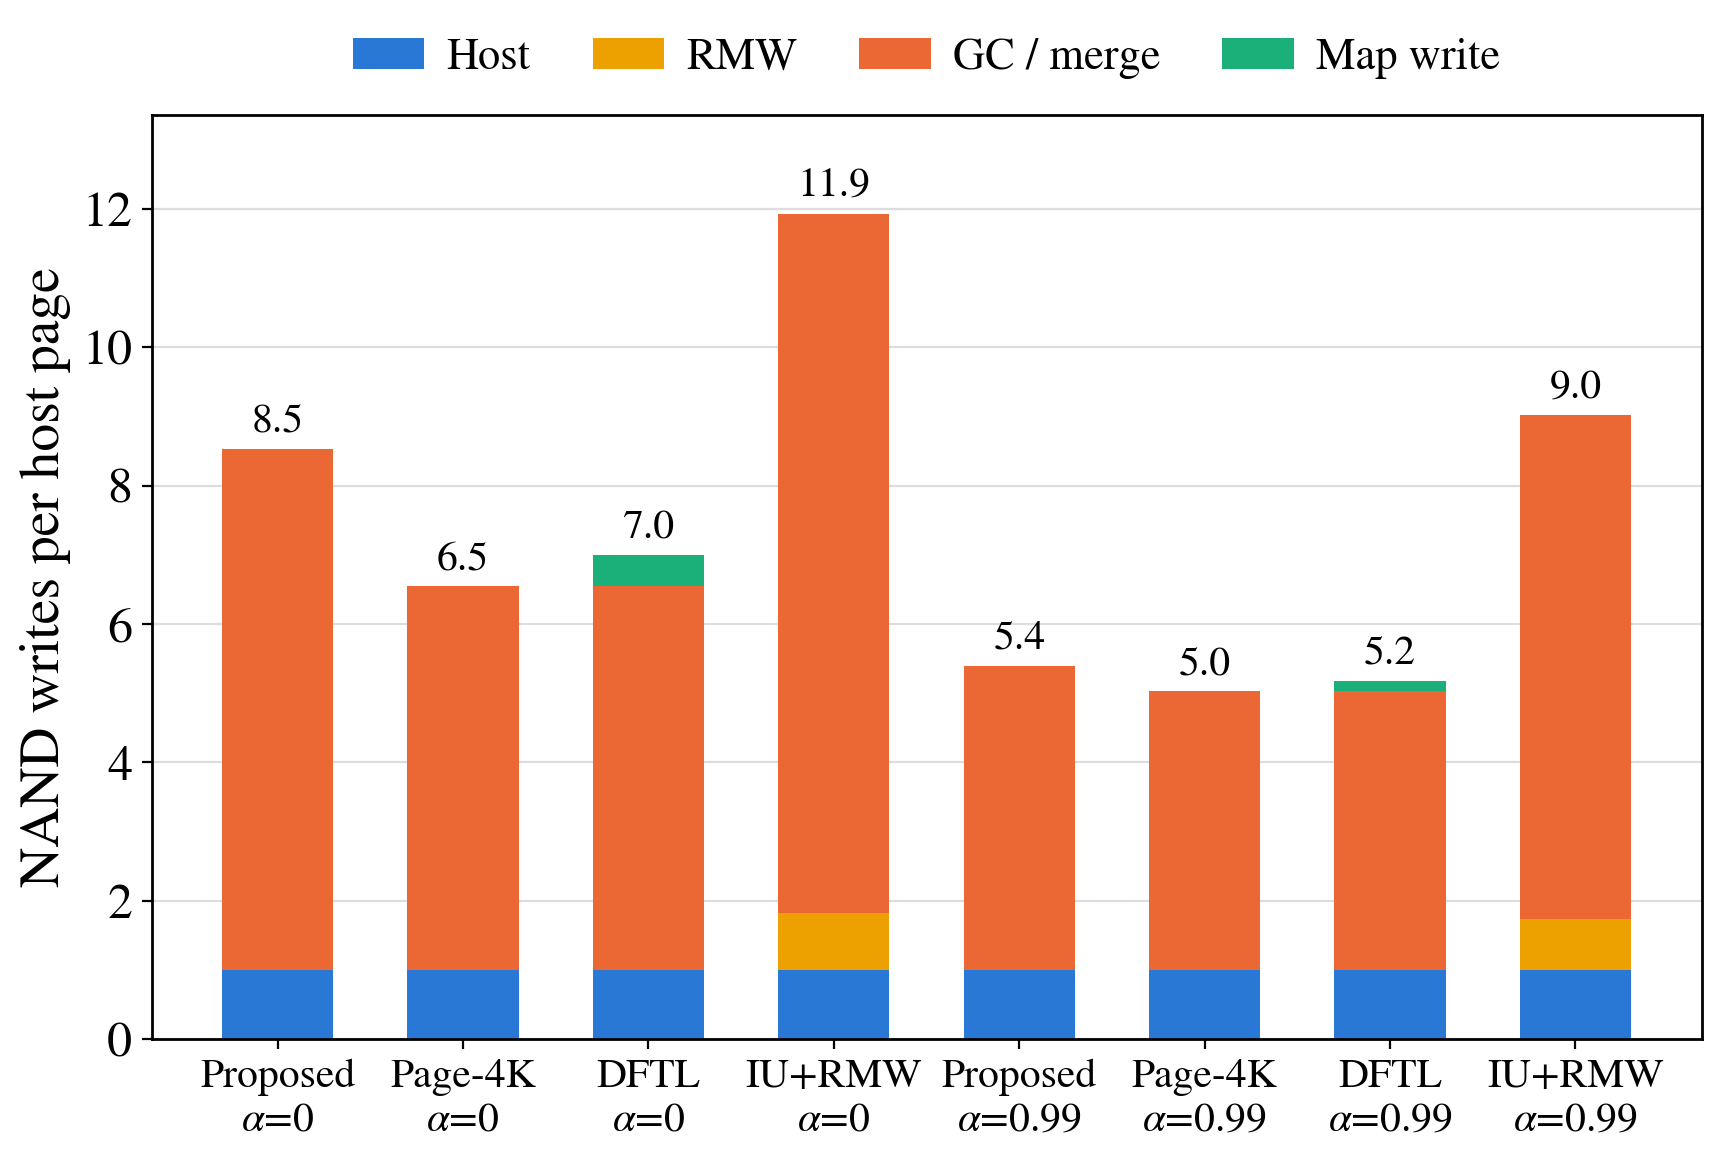
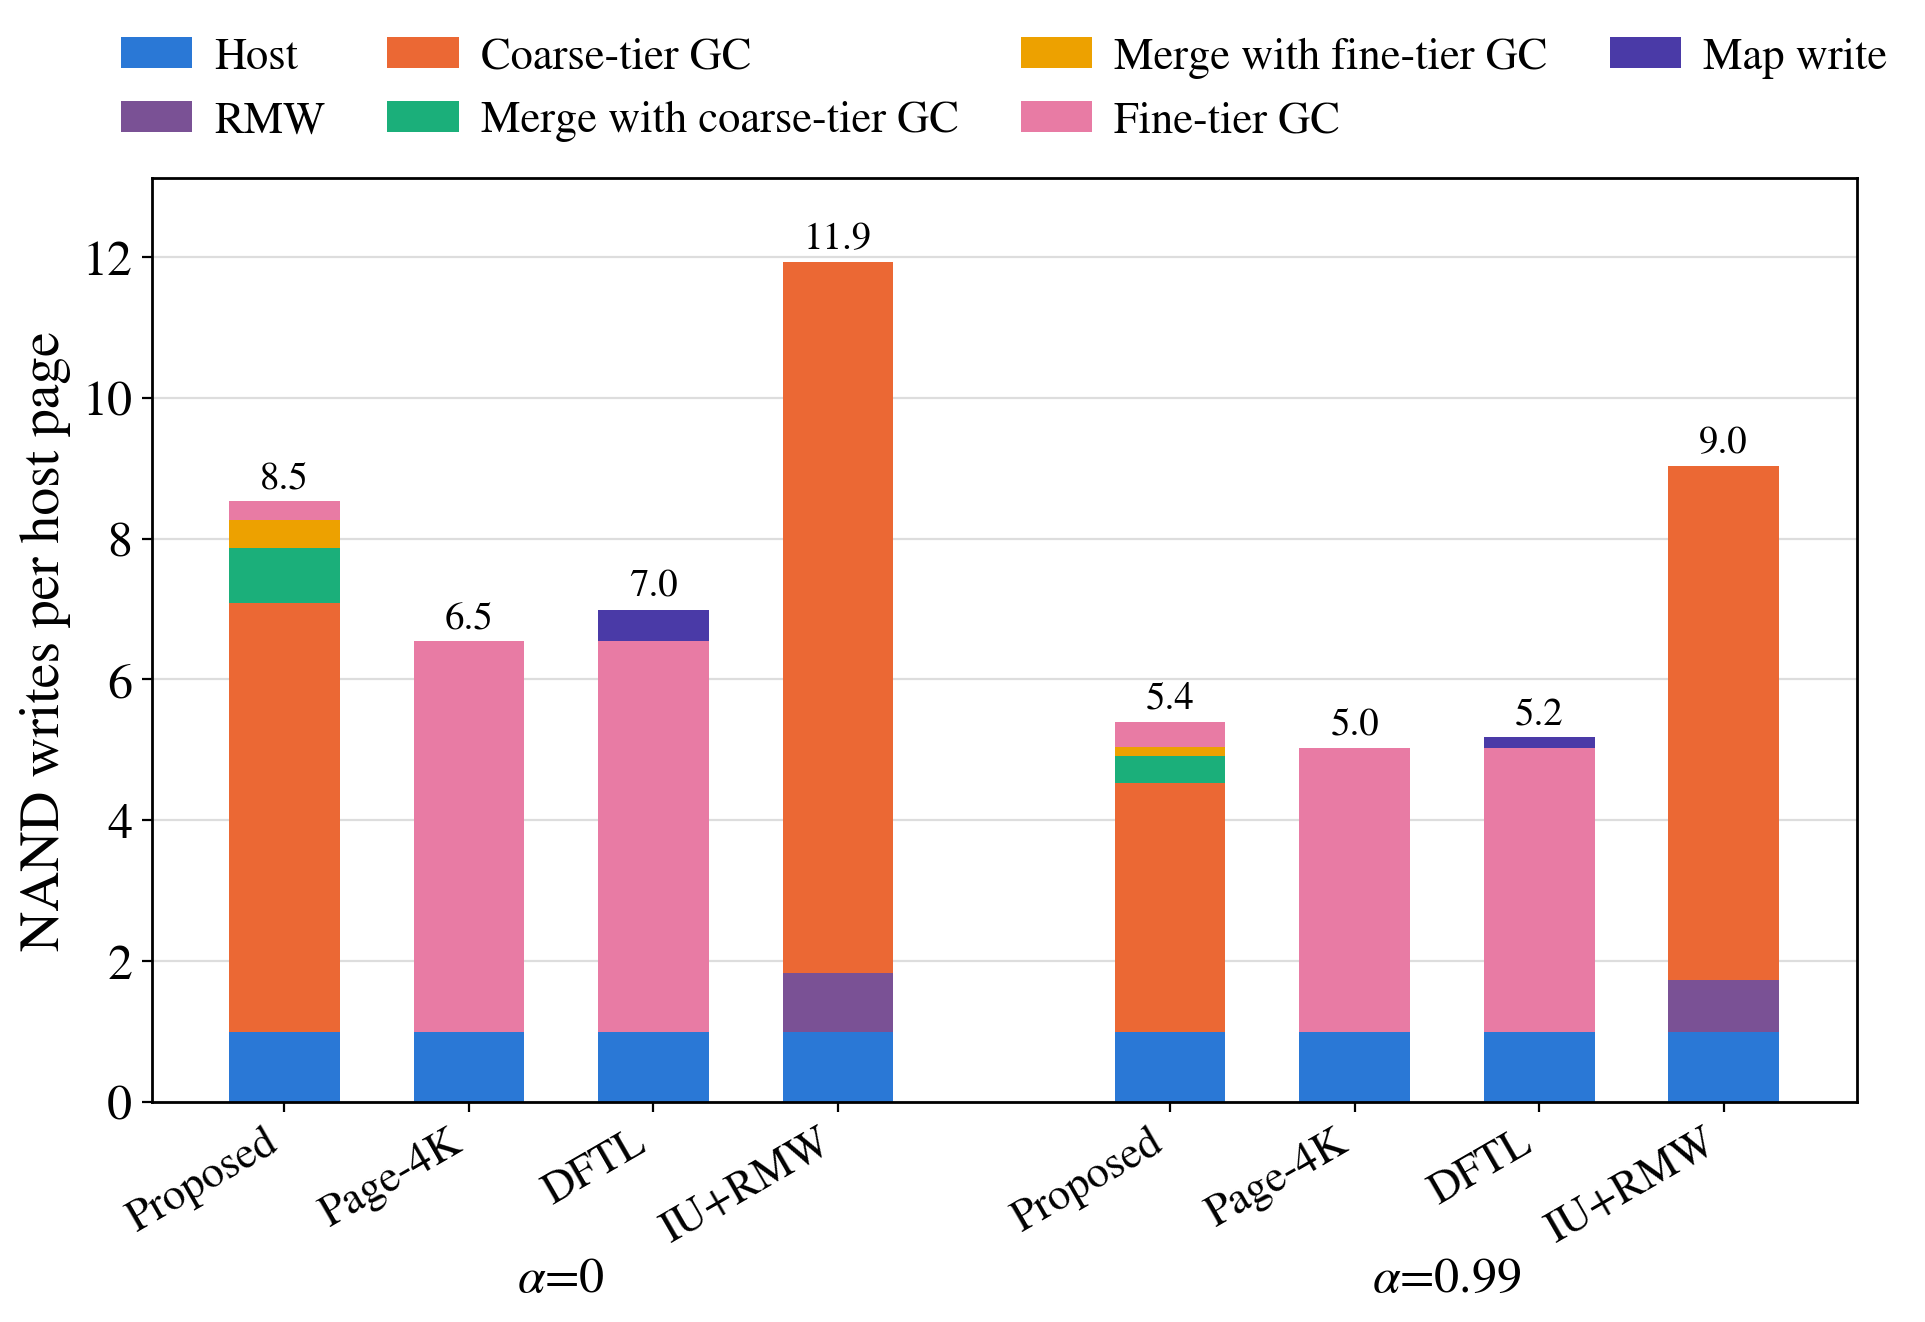
Unify write-breakdown components across policy figures; add size-mix policy comparison (fig5b)

diff --git a/tools/plot.py b/tools/plot.py
@@ -249,39 +249,88 @@ def fig_breakdown_sizes():
 
 
 def fig_breakdown_policies():
+    """Write breakdown per policy for the default size mix (canonical setting)."""
     mods = POLICIES[:4]
-    gc_keys = ["pgc", "cgc_clean", "cgc_refold", "finegc", "fold", "unfold",
-               "fullmerge", "partialmerge", "zerofill"]
-    fig, ax = plt.subplots(figsize=(10, 6))
     zshow = ["0", "0.99"]
-    x = np.arange(len(mods) * len(zshow))
-    labels, host, rmw, gc, mp = [], [], [], [], []
-    for zi, z in enumerate(zshow):
-        for tag, label, _, _ in mods:
-            r = load(CANON, f"{tag}_z{z}.json")
-            h = r["host_pages"]
-            labels.append(f"{label}\n" + r"$\alpha$=" + z)
-            host.append(r["prog"]["host"] / h)
-            rmw.append(r["prog"].get("rmw", 0) / h)
-            gc.append(sum(r["prog"].get(k, 0) for k in gc_keys) / h)
-            mp.append(r["prog"].get("map", 0) / h)
-    host, rmw, gc, mp = map(np.array, (host, rmw, gc, mp))
-    ax.bar(x, host, 0.6, label="Host", color="#2a78d6")
-    ax.bar(x, rmw, 0.6, bottom=host, label="RMW", color="#eda100")
-    ax.bar(x, gc, 0.6, bottom=host + rmw, label="GC / merge", color="#eb6834")
-    ax.bar(x, mp, 0.6, bottom=host + rmw + gc, label="Map write", color="#1baf7a")
-    tot = host + rmw + gc + mp
-    for xi, t in zip(x, tot):
-        ax.annotate(f"{t:.1f}", (xi, t), ha="center", va="bottom", fontsize=15,
-                    xytext=(0, 3), textcoords="offset points")
-    ax.set_xticks(x)
-    ax.set_xticklabels(labels, fontsize=15)
+    fig, ax = plt.subplots(figsize=(11, 6))
+    labels, recs, xs = [], [], []
+    for gi, z in enumerate(zshow):
+        for mi, (tag, label, _, _) in enumerate(mods):
+            recs.append(load(CANON, f"{tag}_z{z}.json"))
+            labels.append(label)
+            xs.append(gi * (len(mods) + 0.8) + mi)
+    tot = _stack(ax, np.array(xs, dtype=float), recs)
+    ax.set_xticks(xs)
+    ax.set_xticklabels(labels, rotation=30, ha="right", fontsize=16)
+    for gi, z in enumerate(zshow):
+        ax.annotate(r"$\alpha$=" + z, (gi * (len(mods) + 0.8) + (len(mods) - 1) / 2, 0),
+                    xytext=(0, -68), textcoords="offset points", ha="center", fontsize=18)
     ax.set_ylabel("NAND writes per host page")
+    ax.set_ylim(0, max(tot) * 1.1)
     outside_legend(ax, 4)
-    ax.set_ylim(0, max(tot) * 1.12)
     ax.grid(axis="y", color="#dddddd", linewidth=0.8)
     ax.set_axisbelow(True)
     save(fig, "fig5_breakdown_policies")
+
+
+# Unified write-source stack used by the policy-comparison figures.
+# page4k / DFTL map everything at 4 KB, so their GC is counted as fine-tier GC.
+STACK = [("host",       ["host"],               "Host",                      "#2a78d6"),
+         ("rmw",        ["rmw"],                "RMW",                       "#7a5195"),
+         ("coarse",     ["cgc_clean"],          "Coarse-tier GC",            "#eb6834"),
+         ("refold",     ["cgc_refold"],         "Merge with coarse-tier GC", "#1baf7a"),
+         ("fold",       ["fold", "unfold"],     "Merge with fine-tier GC",   "#eda100"),
+         ("fine",       ["finegc", "pgc"],      "Fine-tier GC",              "#e87ba4"),
+         ("map",        ["map"],                "Map write",                 "#4a3aa7")]
+
+
+def _stack(ax, xs, recs, width=0.6, annotate=True):
+    bottom = np.zeros(len(recs))
+    for _, keys, label, color in STACK:
+        vals = np.array([sum(r["prog"].get(k, 0) for k in keys) / r["host_pages"] for r in recs])
+        if vals.max() > 0:
+            ax.bar(xs, vals, width, bottom=bottom, label=label, color=color)
+        bottom += vals
+    if annotate:
+        for x, t in zip(xs, bottom):
+            ax.annotate(f"{t:.1f}", (x, t), ha="center", va="bottom", fontsize=14,
+                        xytext=(0, 2), textcoords="offset points")
+    return bottom
+
+
+def fig_breakdown_sizes_policies():
+    """Write breakdown per policy for the small-heavy and large-heavy size mixes."""
+    mods = POLICIES[:4]
+    fig, axes = plt.subplots(1, 2, figsize=(15, 6))
+    for ax, dist, title, ymax in ((axes[0], "small", "small-heavy (50% 4 KB requests)", 38),
+                                  (axes[1], "large", "large-heavy (50% 256 KB requests)", 10)):
+        labels, recs, xs = [], [], []
+        for gi, z in enumerate(["0", "0.99"]):
+            for mi, (tag, label, _, _) in enumerate(mods):
+                key = tag.replace("_eq", "")
+                recs.append(load(SIZES, f"{key}_{dist}_z{z}.json"))
+                labels.append(label)
+                xs.append(gi * (len(mods) + 0.8) + mi)
+        _stack(ax, np.array(xs, dtype=float), recs)
+        ax.set_xticks(xs)
+        ax.set_xticklabels(labels, rotation=30, ha="right", fontsize=15)
+        ax.set_ylim(0, ymax)
+        ax.set_title(title, fontsize=17)
+        ax.grid(axis="y", color="#dddddd", linewidth=0.8)
+        ax.set_axisbelow(True)
+        for gi, z in enumerate(["0", "0.99"]):
+            ax.annotate(r"$\alpha$=" + z, (gi * (len(mods) + 0.8) + (len(mods) - 1) / 2, 0),
+                        xytext=(0, -62), textcoords="offset points", ha="center", fontsize=17)
+    axes[0].set_ylabel("NAND writes per host page")
+    h, l = axes[0].get_legend_handles_labels()
+    h2, l2 = axes[1].get_legend_handles_labels()
+    for hh, ll in zip(h2, l2):
+        if ll not in l:
+            h.append(hh)
+            l.append(ll)
+    fig.legend(h, l, loc="lower center", bbox_to_anchor=(0.5, 0.97), ncol=4, frameon=False,
+               handlelength=1.6, columnspacing=1.4, handletextpad=0.5)
+    save(fig, "fig5b_breakdown_sizes_policies")
 
 
 def fig_seq():
@@ -442,6 +491,7 @@ if __name__ == "__main__":
     fig_breakdown_proposed()
     fig_breakdown_sizes()
     fig_breakdown_policies()
+    fig_breakdown_sizes_policies()
     fig_seq()
     fig_map_read()
     fig_related_work()
